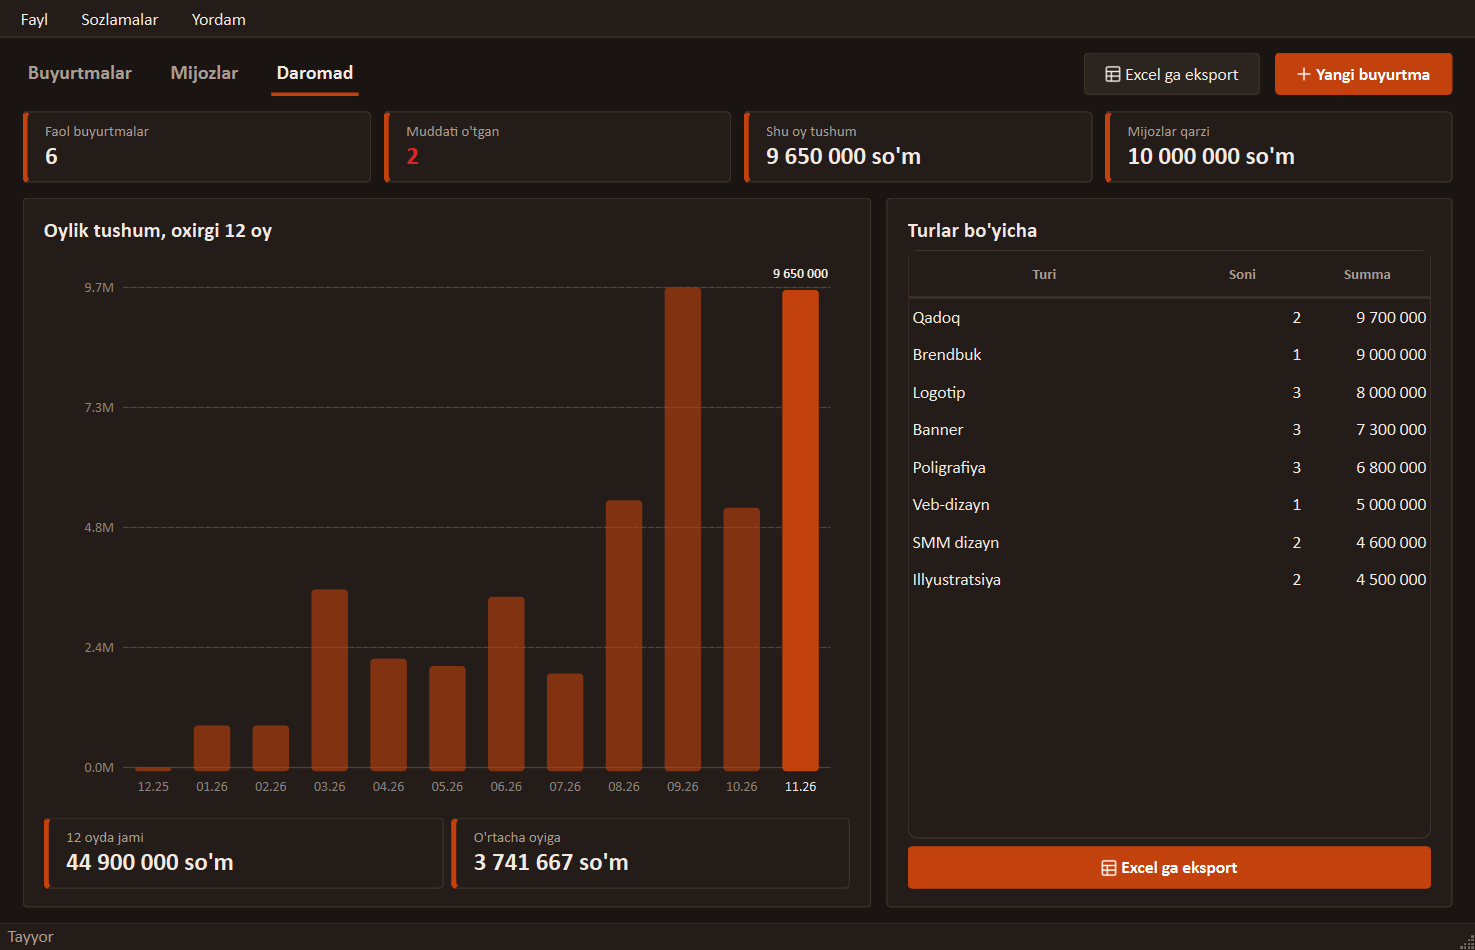
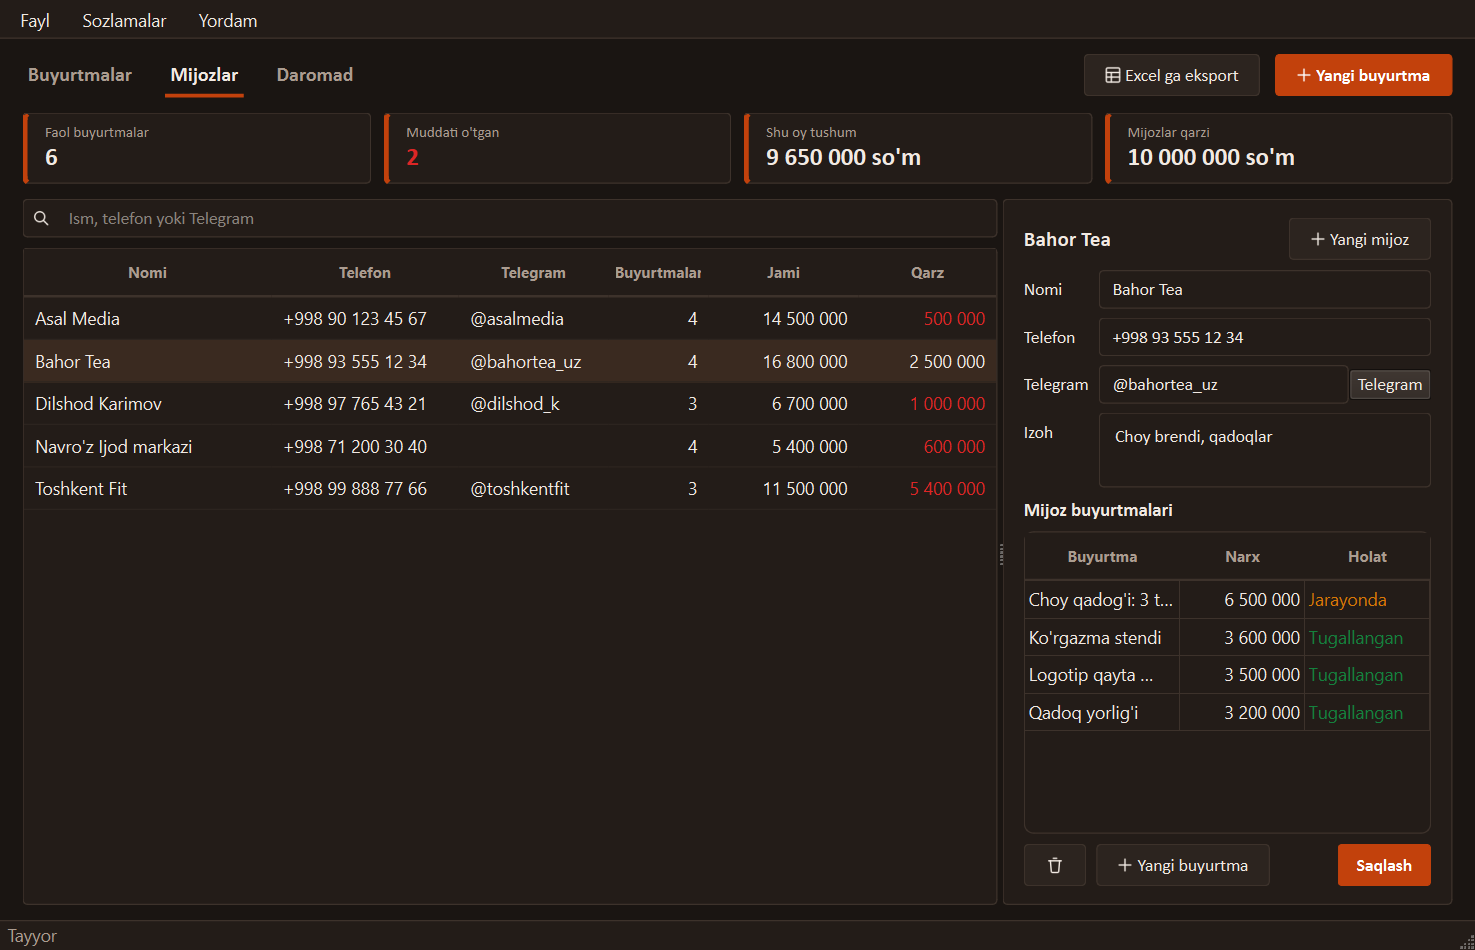
Mijoz buyurtmalari daftari v1.0.1

diff --git a/tests/test_deep_scenarios.py b/tests/test_deep_scenarios.py
@@ -1,0 +1,126 @@
+"""Chuqur ssenariylar: to'lovlar, holatlar, eksport xatolari, buzilgan baza va sozlamalar."""
+import os
+import sys
+from pathlib import Path
+
+import pytest
+
+sys.path.insert(0, str(Path(__file__).resolve().parents[1]))
+
+
+@pytest.fixture()
+def env(tmp_path, monkeypatch):
+    monkeypatch.setenv("APPDATA", str(tmp_path / "appdata"))
+    from PySide6.QtWidgets import QApplication
+    from uzkit import app as appmod, i18n
+    from uzkit.settings import Settings
+    appmod.META = appmod.load_meta()
+    appmod.SETTINGS = Settings(appmod.META["slug"])
+    QApplication.instance() or QApplication([])
+    i18n.set_language("uz")
+    from buyurtmalar_daftari import window as W
+    msgs = []
+    monkeypatch.setattr(W, "error", lambda *a: msgs.append(("error", a[1])))
+    monkeypatch.setattr(W, "warn", lambda *a: msgs.append(("warn", a[1])))
+    monkeypatch.setattr(W, "open_path", lambda p: msgs.append(("open", p)))
+    monkeypatch.setattr(W, "ask", lambda *a: True)
+    out = tmp_path / "Ҳисоб 'fakturalar'"
+    out.mkdir()
+    return W, msgs, out
+
+
+def test_parse_money_separators():
+    from buyurtmalar_daftari import db as D
+    assert D.parse_money("1.500.000") == 1_500_000
+    assert D.parse_money("1,500,000") == 1_500_000
+    assert D.parse_money("1.500.000,50") == 1_500_000
+    assert D.parse_money("2,5") == 2
+    assert D.parse_money("1 500") == 1500
+    assert D.parse_money("abc") == 0
+
+
+def test_payment_and_status_flow(env, monkeypatch):
+    from PySide6.QtCore import QDate
+    from PySide6.QtWidgets import QInputDialog
+    W, msgs, out = env
+    w = W.MainWindow()
+    c = w.clients
+    c.new()
+    c.name.setText("Ўзбек ʻMijozʼ")
+    c.tg.setText("https://t.me/abc/")
+    c.save()
+    assert w.db.client(c.cid)["telegram"] == "@abc"
+    e = w.orders.editor
+    w.new_order(c.cid)
+    e.title.setText("Kech qolgan")
+    e.price.setValue(1_000_000)
+    e.deadline.setDate(QDate.currentDate().addDays(-3))
+    e.save()
+    oid = e.oid
+    assert w.db.order(oid)["overdue"]
+    monkeypatch.setattr(QInputDialog, "getInt", staticmethod(lambda *a, **k: (250_000, True)))
+    e.add_payment()
+    assert w.db.order(oid)["debt"] == 750_000
+    e.pays.selectRow(0)
+    e.delete_payment()
+    assert w.db.order(oid)["debt"] == 1_000_000
+    e.status.setCurrentIndex(e.status.findData("tugallangan"))
+    e.save()
+    o = w.db.order(oid)
+    assert o["completed"] and not o["overdue"]
+    e.status.setCurrentIndex(e.status.findData("bekor"))
+    e.save()
+    assert w.db.order(oid)["debt"] == 0
+    c.load(c.cid)
+    c.delete()                                   # buyurtma qoladi, mijozsiz
+    assert w.db.order(oid)["client_id"] is None
+    w.close()
+
+
+def test_export_to_readonly_reports_error(env, monkeypatch):
+    from PySide6.QtWidgets import QFileDialog
+    W, msgs, out = env
+    w = W.MainWindow()
+    oid = w.db.add_order("Logo <b>&</b>", None, "logo", 1_000_000)
+    w.show_order(oid)
+    for name in ("ro.pdf", "ro.xlsx"):
+        ro = out / name
+        ro.write_bytes(b"x")
+        os.chmod(ro, 0o444)
+        monkeypatch.setattr(QFileDialog, "getSaveFileName", staticmethod(lambda *a, **k: (str(ro), "")))
+        try:
+            if name.endswith(".pdf"):
+                w.orders.editor.invoice()
+            else:
+                w.export_excel()
+        finally:
+            os.chmod(ro, 0o666)
+        assert msgs[-1][0] == "error" and name in msgs[-1][1]
+        assert ro.read_bytes() == b"x"
+    good = out / "hisob ў.pdf"
+    monkeypatch.setattr(QFileDialog, "getSaveFileName", staticmethod(lambda *a, **k: (str(good), "")))
+    w.orders.editor.invoice()
+    assert good.read_bytes()[:4] == b"%PDF"
+    w.close()
+
+
+def test_corrupt_db_is_backed_up(env):
+    from uzkit.paths import data_dir
+    W, msgs, out = env
+    d = data_dir("buyurtmalar-daftari")
+    (d / "buyurtmalar.db").write_bytes(b"garbage" * 100)
+    w = W.MainWindow()
+    assert w.db.path.endswith("buyurtmalar.db")
+    assert list(d.glob("buyurtmalar.broken-*.db"))
+    assert msgs and msgs[-1][0] == "error"
+    w.db.add_client("Yangi")
+    w.close()
+
+
+def test_designer_setting_not_string(env, monkeypatch):
+    from uzkit import AUTHOR
+    W, msgs, out = env
+    w = W.MainWindow()
+    w.settings.set("designer", 5)
+    assert w.designer() == AUTHOR
+    w.close()

diff --git a/buyurtmalar_daftari/window.py b/buyurtmalar_daftari/window.py
@@ -90,11 +90,11 @@ def deadline_text(o) -> str:
         return shown
     n = (dd - date.today()).days
     if n < 0:
-        return f"{shown}  ·  {tr('overdue_days', n=-n)}"
+        return f"{shown} · {tr('overdue_days', n=-n)}"
     if n == 0:
-        return f"{shown}  ·  {tr('today')}"
+        return f"{shown} · {tr('today')}"
     if n <= 7:
-        return f"{shown}  ·  {tr('days_left', n=n)}"
+        return f"{shown} · {tr('days_left', n=n)}"
     return shown
 
 
@@ -194,10 +194,6 @@ class OrdersModel(QAbstractTableModel):
                 return QColor("#8a817b")
         if role == Qt.BackgroundRole and o["overdue"]:
             return QColor(220, 38, 38, 24)
-        if role == Qt.FontRole and c == "deadline" and o["overdue"]:
-            f = QFont()
-            f.setBold(True)
-            return f
         return None
 
 
@@ -495,6 +491,9 @@ class OrderEditor(QFrame):
         try:
             html = invoice_html(o, c, self.win.db.payments(self.oid), self.win.designer(), tr, type_name, accent())
             save_invoice_pdf(html, p)
+        except PermissionError:
+            error(self, tr("save_failed", p=p))
+            return
         except Exception as ex:
             from uzkit.app import log_exception
             log_exception(ex)
@@ -552,7 +551,7 @@ class OrdersView(QWidget):
         hh.setSectionResizeMode(QHeaderView.Interactive)
         hh.setSectionResizeMode(2, QHeaderView.Stretch)
         hh.setHighlightSections(False)
-        for col, w in ((0, 40), (1, 112), (3, 84), (4, 82), (5, 78), (6, 178), (7, 110)):
+        for col, w in ((0, 40), (1, 112), (3, 84), (4, 86), (5, 86), (6, 184), (7, 110)):
             self.table.setColumnWidth(col, w)
         self.table.setColumnHidden(0, True)
         self.table.setHorizontalScrollBarPolicy(Qt.ScrollBarAsNeeded)
@@ -976,11 +975,21 @@ class MainWindow(BaseMainWindow):
             self.db = D.DB(":memory:")
             D.fill_demo(self.db)
         else:
+            path = data_dir(appmod.META["slug"]) / "buyurtmalar.db"
             try:
-                self.db = D.DB(data_dir(appmod.META["slug"]) / "buyurtmalar.db")
+                self.db = D.DB(path)
             except Exception as ex:
-                error(None, tr("db_error", e=ex))
-                self.db = D.DB(":memory:")
+                # Buzilgan bazani zaxiraga olib, yangisini ochamiz (yangi yozuvlar yo'qolmasin)
+                backup = path.with_name(f"buyurtmalar.broken-{datetime.now():%Y%m%d-%H%M%S}.db")
+                try:
+                    if not any(k in str(ex) for k in ("not a database", "malformed")):
+                        raise ex          # masalan, band (locked) baza: faylga tegilmaydi
+                    path.replace(backup)
+                    self.db = D.DB(path)
+                    error(None, tr("db_reset", e=ex, p=backup))
+                except Exception as ex2:
+                    error(None, tr("db_error", e=ex2))
+                    self.db = D.DB(":memory:")
 
         root = QWidget()
         v = QVBoxLayout(root)
@@ -1081,7 +1090,8 @@ class MainWindow(BaseMainWindow):
         self.orders.status.setCurrentIndex(self.orders.status.findData("overdue"))
 
     def designer(self) -> str:
-        return self.settings.get("designer", AUTHOR) if self.settings else AUTHOR
+        name = self.settings.get("designer", AUTHOR) if self.settings else AUTHOR
+        return name if isinstance(name, str) and name.strip() else AUTHOR
 
     def _set_designer(self):
         name, ok = QInputDialog.getText(self, tr("designer_menu"), tr("designer_name"), text=self.designer())
@@ -1095,6 +1105,9 @@ class MainWindow(BaseMainWindow):
             return
         try:
             export_excel(self.db, p, tr, status_name, type_name)
+        except PermissionError:
+            error(self, tr("save_failed", p=p))
+            return
         except Exception as ex:
             from uzkit.app import log_exception
             log_exception(ex)

diff --git a/buyurtmalar_daftari/db.py b/buyurtmalar_daftari/db.py
@@ -61,8 +61,17 @@ def money(v) -> str:
 
 
 def parse_money(text: str) -> int:
+    """'1 500 000', '1.500.000', '1,500,000.50', '2,5' -> butun so'm."""
     t = "".join(ch for ch in str(text) if ch.isdigit() or ch in ",.-")
-    t = t.replace(",", ".")
+    seps = [i for i, ch in enumerate(t) if ch in ",."]
+    if seps:
+        last = seps[-1]
+        decimals = len(t) - last - 1
+        if len(seps) > 1 and len({t[i] for i in seps}) == 1:
+            last = -1                       # 1.500.000: hammasi minglik ajratgich
+        elif len(seps) == 1 and decimals == 3:
+            last = -1                       # 1.500 yoki 1,500: minglik
+        t = "".join(ch for i, ch in enumerate(t) if ch not in ",." or i == last).replace(",", ".")
     if not t or t in "-.":
         return 0
     try:
@@ -87,10 +96,14 @@ class DB:
     def __init__(self, path: str = ":memory:"):
         self.path = str(path)
         self.con = sqlite3.connect(self.path)
-        self.con.row_factory = sqlite3.Row
-        self.con.execute("PRAGMA foreign_keys = ON")
-        self.con.executescript(SCHEMA)
-        self.con.commit()
+        try:
+            self.con.row_factory = sqlite3.Row
+            self.con.execute("PRAGMA foreign_keys = ON")
+            self.con.executescript(SCHEMA)
+            self.con.commit()
+        except Exception:
+            self.con.close()          # fayl band bo'lib qolmasin (zaxiraga ko'chirish uchun)
+            raise
 
     def close(self):
         self.con.close()

diff --git a/buyurtmalar_daftari/strings.py b/buyurtmalar_daftari/strings.py
@@ -106,5 +106,11 @@ STRINGS = {
     "pay_amount_q": {"uz": "To'lov summasi (so'm):", "ru": "Сумма платежа (сум):", "en": "Payment amount (UZS):"},
     "db_error": {"uz": "Ma'lumotlar bazasini ochib bo'lmadi:\n{e}", "ru": "Не удалось открыть базу данных:\n{e}",
                  "en": "Could not open the database:\n{e}"},
+    "db_reset": {"uz": "Ma'lumotlar bazasi buzilgan ({e}). U zaxiraga olindi va yangi baza ochildi:\n{p}",
+                 "ru": "База данных повреждена ({e}). Она сохранена в резервную копию, создана новая база:\n{p}",
+                 "en": "The database is damaged ({e}). It was backed up and a new one was created:\n{p}"},
+    "save_failed": {"uz": "Faylni saqlab bo'lmadi. U boshqa dasturda ochiq yoki faqat o'qish uchun bo'lishi mumkin:\n{p}",
+                    "ru": "Не удалось сохранить файл. Возможно, он открыт в другой программе или только для чтения:\n{p}",
+                    "en": "Could not save the file. It may be open in another program or read-only:\n{p}"},
     "folder_missing": {"uz": "Papka topilmadi: {p}", "ru": "Папка не найдена: {p}", "en": "Folder not found: {p}"},
 }

diff --git a/buyurtmalar_daftari/export.py b/buyurtmalar_daftari/export.py
@@ -122,6 +122,13 @@ def save_invoice_pdf(html_text: str, path) -> Path:
     from PySide6.QtGui import QPageLayout, QPageSize, QTextDocument
     from PySide6.QtPrintSupport import QPrinter
 
+    # QPrinter yozolmasa jim qoladi: fayl yozish mumkinligini oldindan tekshiramiz
+    target = Path(path)
+    existed = target.exists()
+    with open(target, "ab"):
+        pass
+    if not existed:
+        target.unlink()
     printer = QPrinter(QPrinter.HighResolution)
     printer.setOutputFormat(QPrinter.PdfFormat)
     printer.setOutputFileName(str(path))

diff --git a/uzkit/settings.py b/uzkit/settings.py
@@ -18,6 +18,8 @@ class Settings:
         try:
             if self.path.exists():
                 self._data = json.loads(self.path.read_text(encoding="utf-8"))
+                if not isinstance(self._data, dict):
+                    raise ValueError("settings root is not an object")
         except Exception:
             # Buzilgan faylni zaxiraga olib, toza boshlaymiz
             try:

diff --git a/README.md b/README.md
@@ -5,7 +5,7 @@
 
 <p align="center">
   <a href="https://github.com/eduhakimov/buyurtmalar-daftari/releases/latest/download/BuyurtmalarDaftari.exe"><img src="https://img.shields.io/badge/Yuklab_olish-BuyurtmalarDaftari.exe-2ea44f?style=for-the-badge&logo=windows" alt="download"></a><br>
-  <img src="https://img.shields.io/badge/version-1.0.0-blue" alt="version">
+  <img src="https://img.shields.io/badge/version-1.0.1-blue" alt="version">
   <img src="https://img.shields.io/badge/Windows-10%20%7C%2011-0078D6?logo=windows" alt="windows">
   <img src="https://img.shields.io/badge/til-UZ%20%7C%20RU%20%7C%20EN-orange" alt="languages">
   <img src="https://img.shields.io/badge/license-All%20rights%20reserved-red" alt="license">
